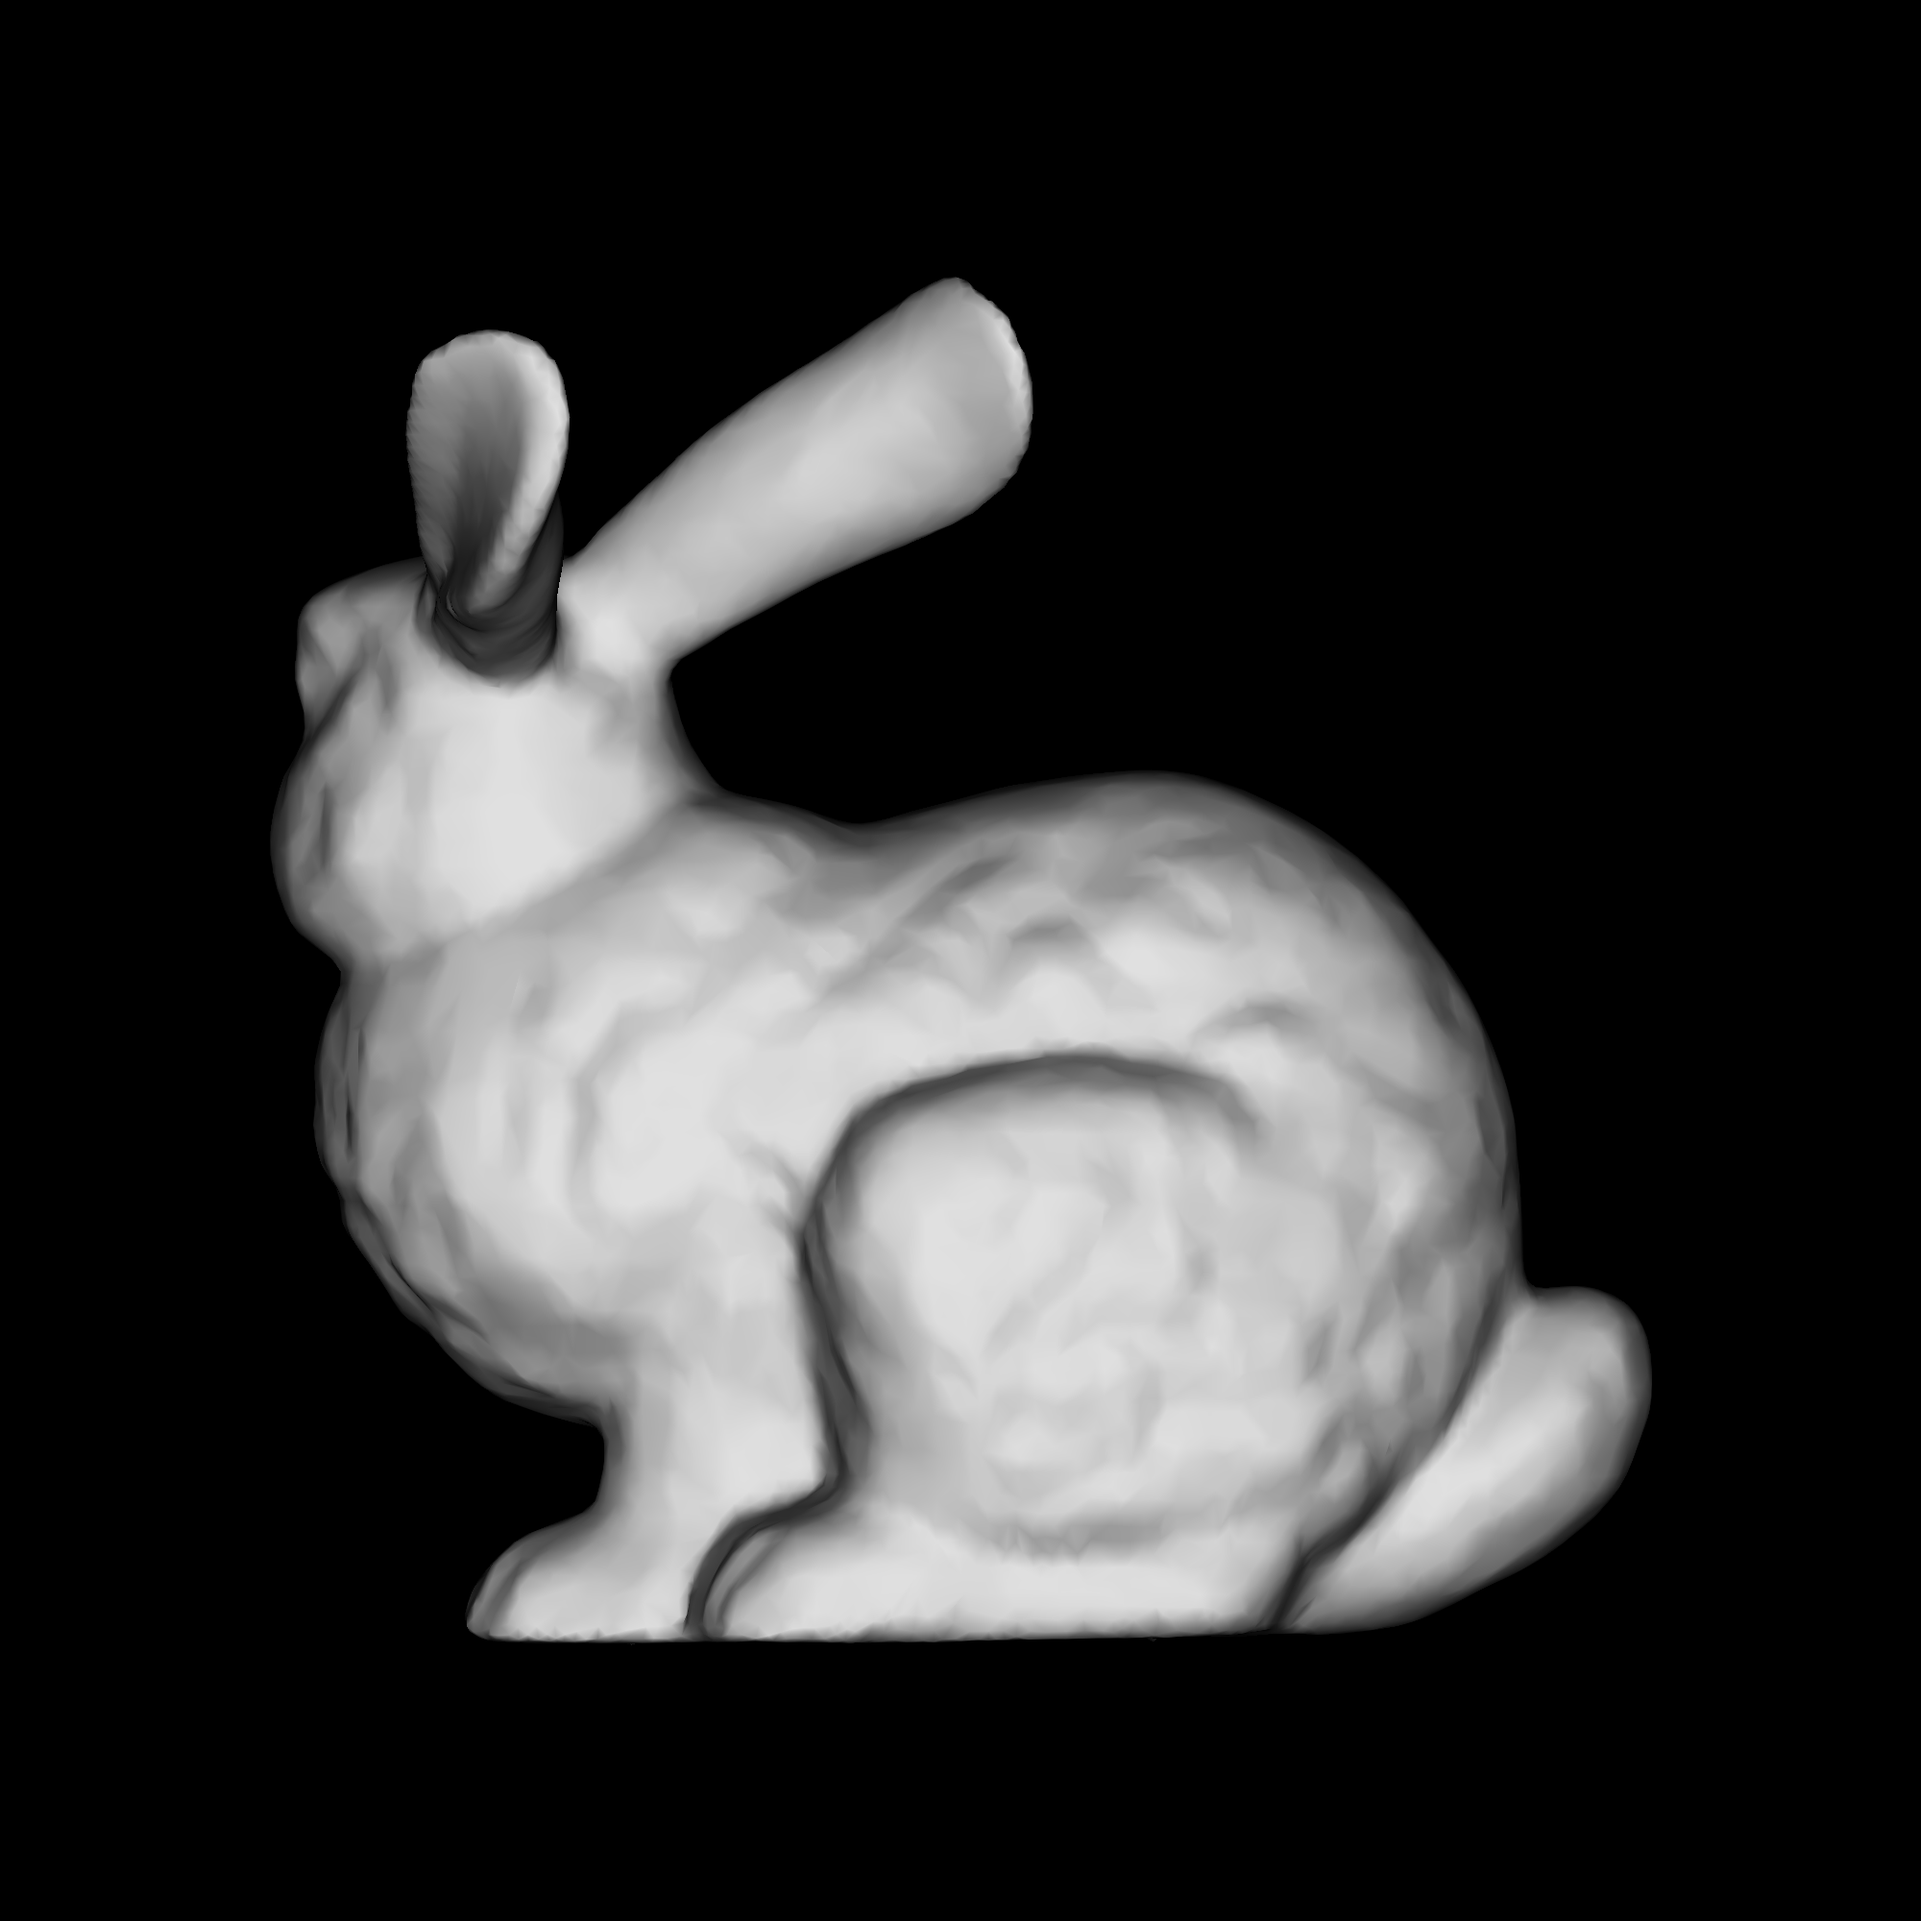
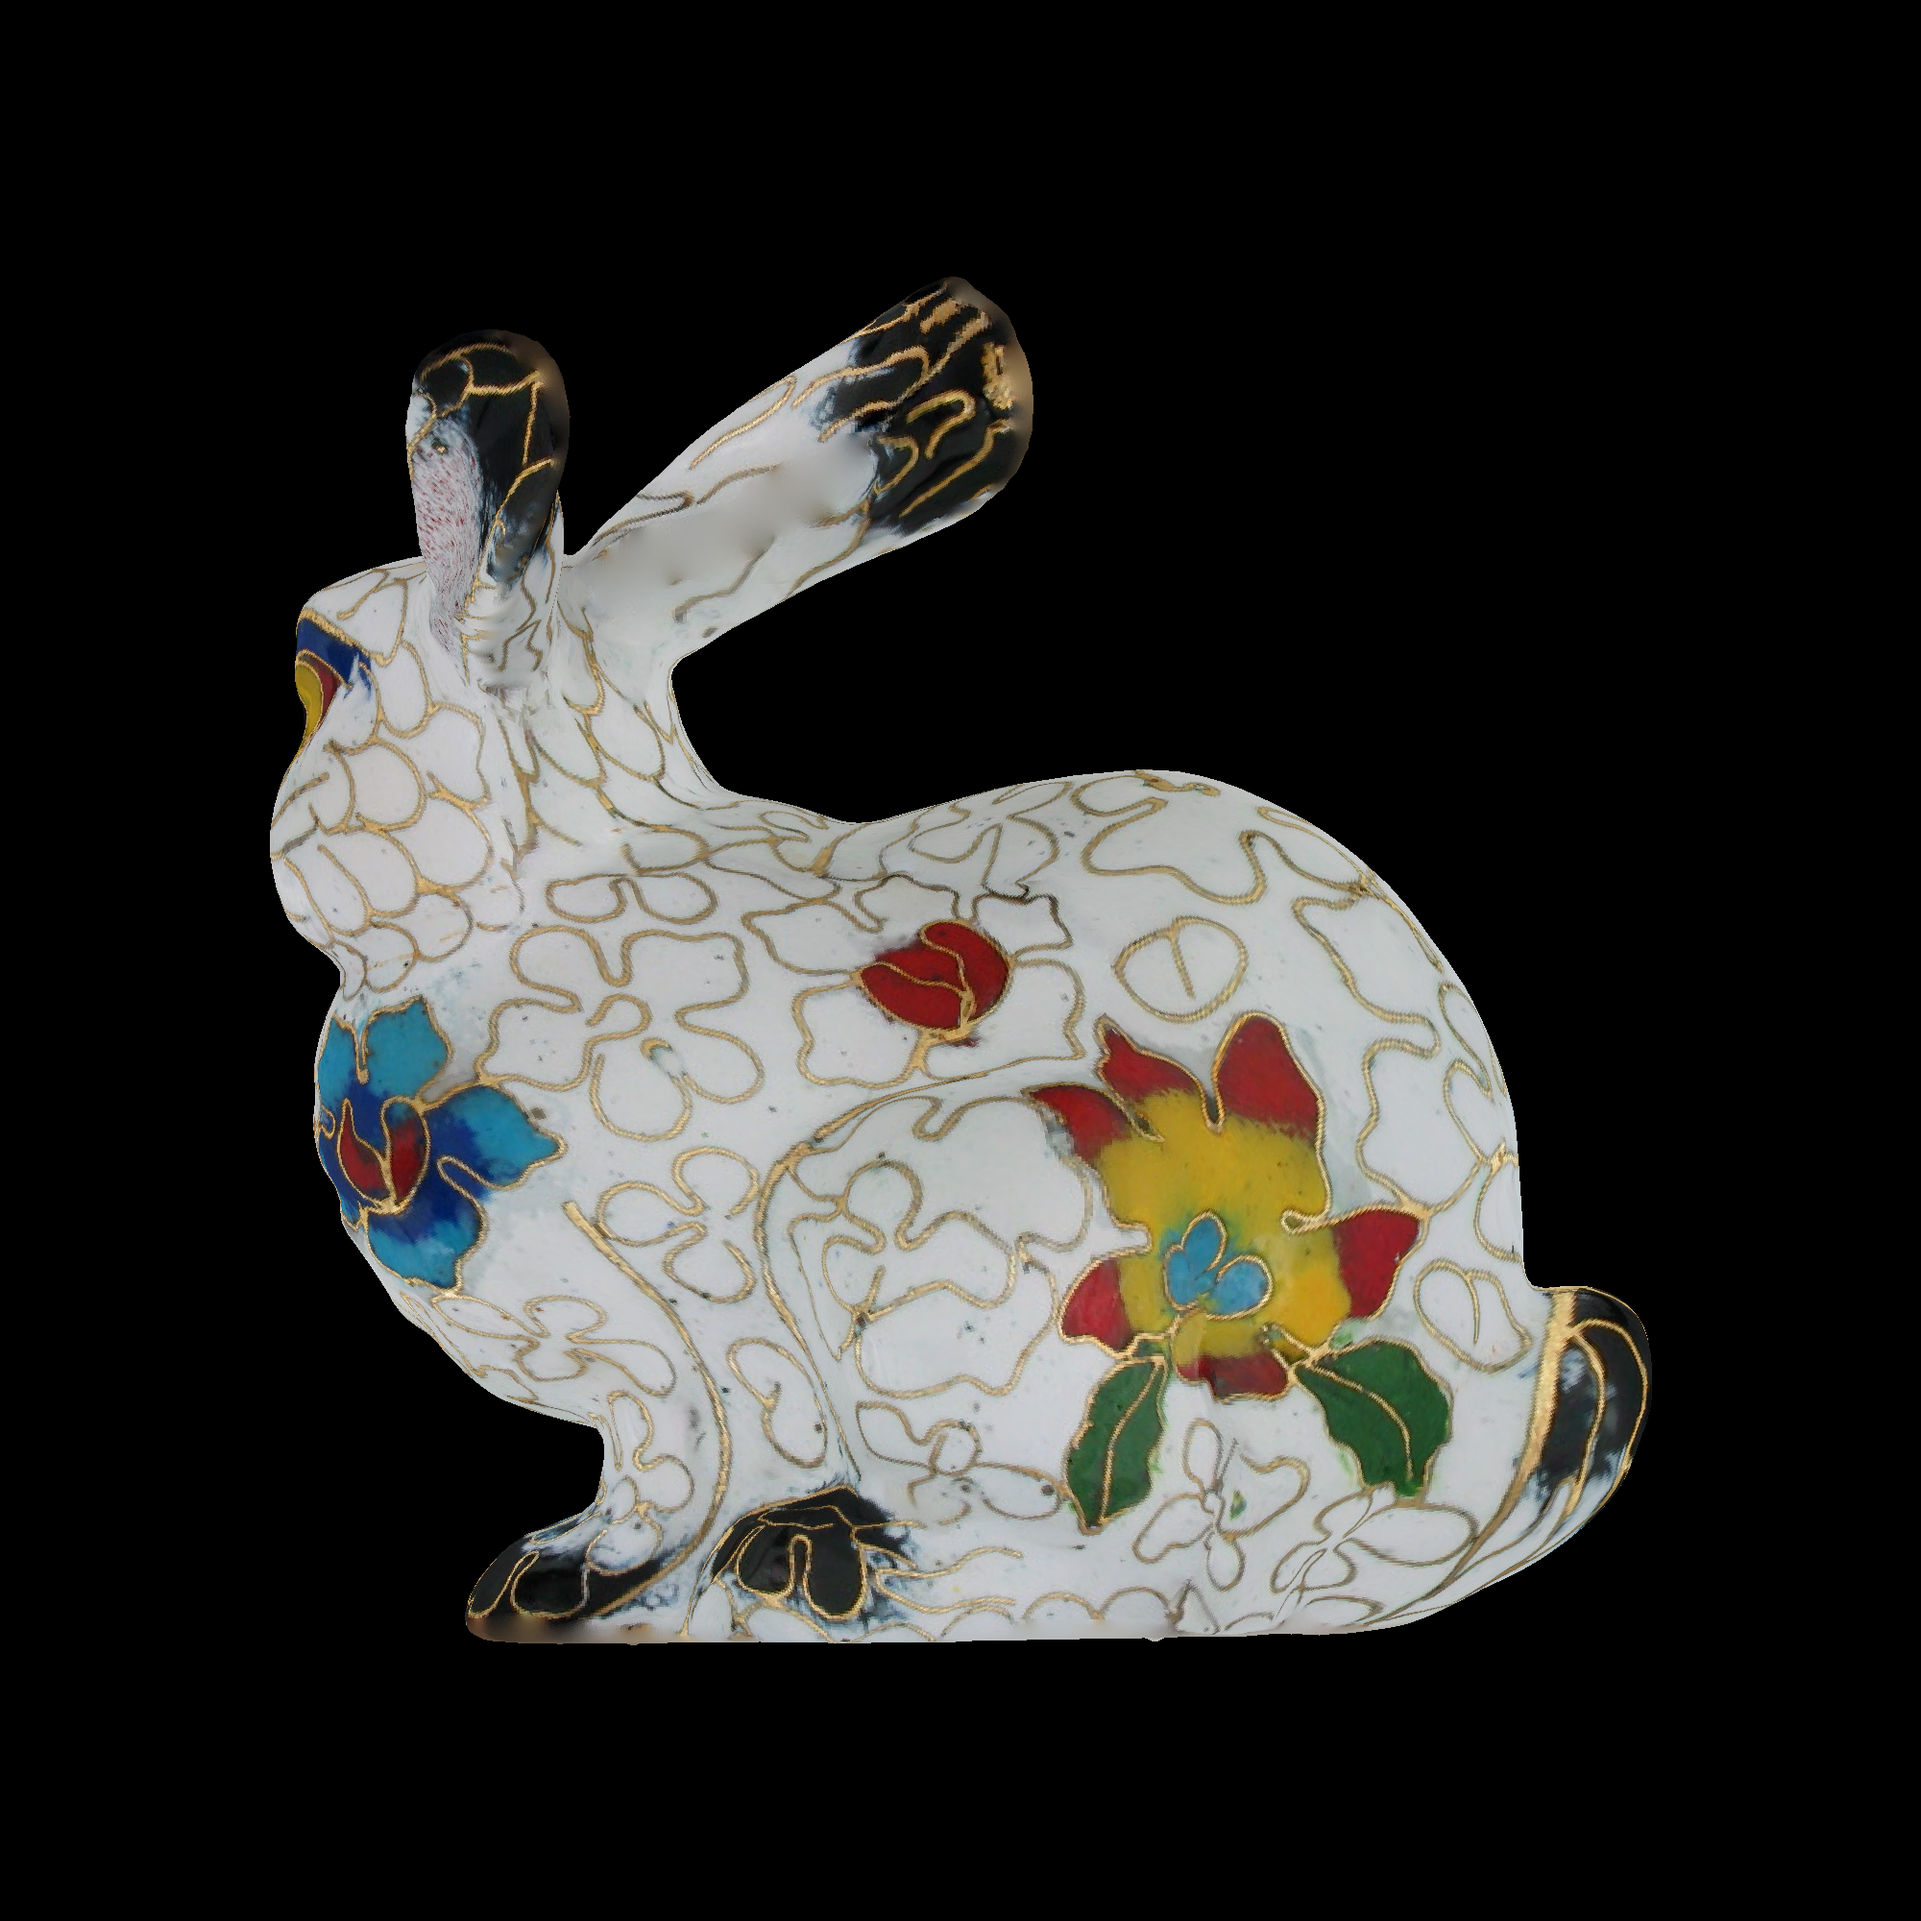
Лаба 4

Changed region(s): [[0.124, 0.124, 0.868, 0.868]]

diff --git a/task18.py b/task18.py
@@ -12,8 +12,6 @@ face_texture_indices = []  # список индексов текстур для
 with open('model_1.obj', 'r') as f:
     for line in f:
         parts = line.strip().split()
-        if not parts:
-            continue
 
         # Строка вершины: "v x y z"
         if parts[0] == 'v':
@@ -41,23 +39,12 @@ with open('model_1.obj', 'r') as f:
 print(f"Загружено: {len(points)} вершин, {len(faces)} полигонов, {len(texture_coords)} координат текстур")
 
 # Загрузка изображения текстуры в память
-texture_width, texture_height = 512, 512
-texture_array = np.zeros((texture_height, texture_width, 3), dtype=np.uint8)
-for y in range(texture_height):
-    for x in range(texture_width):
-        if (x // 32 + y // 32) % 2 == 0:
-            texture_array[y, x] = [255, 200, 150]
-        else:
-            texture_array[y, x] = [150, 100, 50]
-texture_image = Image.fromarray(texture_array)
-
-# Преобразуем текстуру в numpy массив для быстрого доступа
+texture_image = Image.open('bunny-atlas.jpg')
 texture_array = np.array(texture_image)
 texture_width, texture_height = texture_image.size
 WT = texture_width   # ширина текстуры
 HT = texture_height  # высота текстуры
 
-print(f"Размер текстуры: {WT}x{HT}")
 
 # Подготовка к отрисовке: масштаб и центрирование
 # Находим границы модели
@@ -119,16 +106,15 @@ def draw_triangle_textured(z0, z1, z2,
                 # Рисуем только если эта точка ближе чем то что уже нарисовано
                 if z_point < z_buffer[y, x]:
                     # Вычисляем координаты текстуры используя барицентрическую интерполяцию
-                    # Формула: [WT(λ0u0t + λ1u1t + λ2u2t), HT(λ0v0t + λ1v1t + λ2v2t)]
                     u_texture = WT * (lambda0 * u0t + lambda1 * u1t + lambda2 * u2t)
-                    v_texture = HT * (lambda0 * v0t + lambda1 * v1t + lambda2 * v2t)
+                    v_interp = lambda0 * v0t + lambda1 * v1t + lambda2 * v2t
+                    v_texture = HT * (1 - v_interp)  # Инвертируем v координату
                     
                     # Округляем координаты
                     u_texture = int(round(u_texture))
                     v_texture = int(round(v_texture))
                     
                     # Получаем цвет из текстуры
-                    # Цвет пикселя берётся напрямую из текстуры по вычисленным координатам
                     texture_color = texture_array[v_texture, u_texture]
                     
                     # Рисуем пиксель цветом из текстуры
@@ -162,10 +148,9 @@ for face_idx, face in enumerate(faces):
         2000, 2000, image, z_buffer, texture_array, WT, HT
     )
 
-print("Все полигоны обработаны")
-
 # Сохранение результата
 pil_image = Image.fromarray(image)
-pil_image.save('textured_model.png')
-print("Изображение сохранено как 'textured_model.png'")
+pil_image.save('model.png')
+print("Изображение сохранено как 'model.png'")
 pil_image.show()
+

diff --git a/task17.py b/task17.py
@@ -62,6 +62,7 @@ def project_point(x, y, z):
 
 # Направление света
 light_direction = np.array([0.0, 0.0, 1.0])  # свет светит вдоль оси Z
+light_norm = np.linalg.norm(light_direction)
 
 # Вычисление нормалей для каждой вершины
 # Нормаль вершины = сумма нормалей всех полигонов, которые используют эту вершину
@@ -83,17 +84,17 @@ for face in faces:
 
 
 # Вычисление освещения для каждой вершины
-# Чем больше нормаль направлена на свет, тем ярче
+# Формула: I = <n, L> / (||n|| * ||L||)
 vertex_intensity = np.zeros(len(points), dtype=np.float64)
 
 for i in range(len(points)):
     n = vertex_normals[i]
-    n_norm = np.linalg.norm(n)  # длина вектора нормали
+    n_norm = np.linalg.norm(n)  # длина вектора нормали ||n||
     
-    if n_norm > 0:
-        # Косинус угла между нормалью и светом
+    if n_norm > 0 and light_norm > 0:
+        # Косинус угла между нормалью и светом по формуле из задания
         dot_product = np.dot(n, light_direction)
-        vertex_intensity[i] = dot_product / n_norm
+        vertex_intensity[i] = dot_product / (n_norm * light_norm)
 
 
 # Создание изображения и z-буфера
@@ -167,6 +168,6 @@ print("Все полигоны обработаны")
 
 # Сохранение результата
 pil_image = Image.fromarray(image)
-pil_image.save('white_rabbit.png')
-print("Изображение сохранено как 'white_rabbit.png'")
+pil_image.save('model.png')
+print("Изображение сохранено как 'model.png'")
 pil_image.show()
